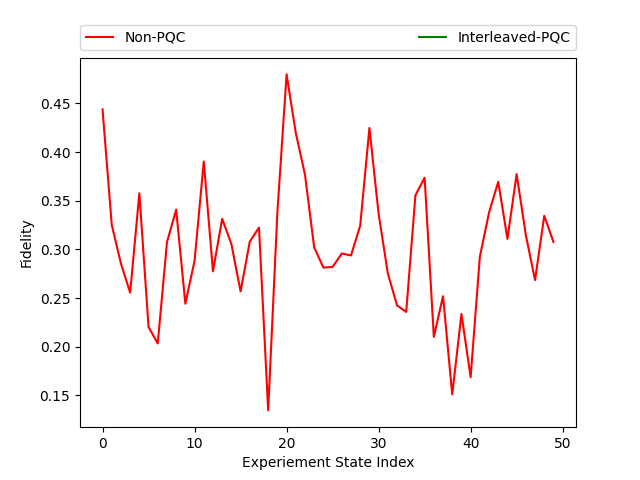
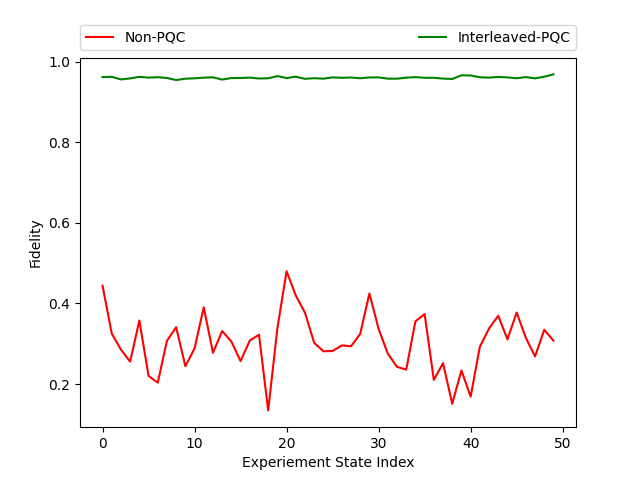
Quaternions training is fixed.

diff --git a/pqcqec/training/jax_train_functions.py b/pqcqec/training/jax_train_functions.py
@@ -23,8 +23,12 @@ def train_pqc_model_with_uncomp(model, dataloader, optimizer, schedule, main_los
             return main_loss_fn(ideal_data, measured)
 
         loss, grads = jax.value_and_grad(loss_fn)(params)
+        # Sanitize gradients to avoid NaN/Inf explosions
+        grads = jax.tree.map(lambda g: jnp.nan_to_num(g, nan=0.0, posinf=0.0, neginf=0.0), grads)
         updates, opt_state = optimizer.update(grads, opt_state, params)
         new_params = optax.apply_updates(params, updates)
+        # Keep params finite
+        new_params = jax.tree.map(lambda p: jnp.nan_to_num(p, nan=0.0, posinf=0.0, neginf=0.0), new_params)
 
         # Fidelity after parameter update
         measured = model(ideal_data, params=new_params)
@@ -32,10 +36,10 @@ def train_pqc_model_with_uncomp(model, dataloader, optimizer, schedule, main_los
 
         return opt_state, new_params, loss, fidelity
 
+    # Initialize optimizer state once and carry across epochs
+    opt_state = optimizer.init(model.get_model_params())
     for e in range(epochs):
         print(f"Epoch {e + 1}/{epochs}")
-        # Reset op state for each epoch    
-        opt_state = optimizer.init(model.get_model_params())
         data_iterator = tqdm(dataloader, desc="Training", total=len(dataloader), leave=False, unit='batch')
         
         # Initialize lists to track metrics for this epoch
@@ -81,8 +85,10 @@ def train_pqc_model_no_uncomp(model, dataloader, optimizer, schedule, main_loss_
             return main_loss_fn(simulated, measured)
 
         loss, grads = jax.value_and_grad(loss_fn)(params)
+        grads = jax.tree.map(lambda g: jnp.nan_to_num(g, nan=0.0, posinf=0.0, neginf=0.0), grads)
         updates, opt_state = optimizer.update(grads, opt_state, params)
         new_params = optax.apply_updates(params, updates)
+        new_params = jax.tree.map(lambda p: jnp.nan_to_num(p, nan=0.0, posinf=0.0, neginf=0.0), new_params)
 
         # Fidelity after parameter update
         measured = model(ideal_data, params=new_params)
@@ -92,10 +98,9 @@ def train_pqc_model_no_uncomp(model, dataloader, optimizer, schedule, main_loss_
 
         return opt_state, new_params, loss, fidelity
 
+    opt_state = optimizer.init(model.get_model_params())
     for e in range(epochs):
         print(f"Epoch {e + 1}/{epochs}")
-        # Reset op state for each epoch    
-        opt_state = optimizer.init(model.get_model_params())
         data_iterator = tqdm(dataloader, desc="Training", total=len(dataloader), leave=False, unit='batch')
         
         # Initialize lists to track metrics for this epoch

diff --git a/pqcqec/experiment/pqc_experiment.py b/pqcqec/experiment/pqc_experiment.py
@@ -84,9 +84,9 @@ def pqc_experiment_runner(
     WARMUP_STEPS = int(0.1 * TOTAL_STEPS)
     RESTART_PERIOD = int(0.25 * TOTAL_STEPS)
 
-    INIT_LR = 7e-5
-    PEAK_LR = 5e-4
-    MIN_LR = 5e-5
+    INIT_LR = 1e-4
+    PEAK_LR = 1e-2
+    MIN_LR = 5e-4
 
     # 1. Warmup schedule
     warmup = optax.linear_schedule(
@@ -111,7 +111,7 @@ def pqc_experiment_runner(
     optimizer = optax.chain(
         optax.clip_by_global_norm(1.0),
         optax.scale_by_adam(eps=1e-8),
-        optax.add_decayed_weights(weight_decay=1e-7),
+        optax.add_decayed_weights(weight_decay=1e-5),
         optax.scale_by_schedule(schedule),
         optax.scale(-1.0)
     )
@@ -159,9 +159,9 @@ def pqc_experiment_runner(
 
     print(f"Fidelity (Ideal, Noisy): {jnp.mean(fidelity_ideal_noisy):.4e}")
     print(f"Fidelity (Ideal, PQC): {jnp.mean(fidelity_ideal_pqc):.4e}")
-    print(f"Test MSE Loss (Noisy): {jax_mse_complex_loss(ideal_out_state, noisy_state):.4e}")
-    print(f'Model Parameters: \n{model.get_model_params()}')
+    # print(f"Test MSE Loss (Noisy): {jax_mse_complex_loss(ideal_out_state, noisy_state):.4e}")
+    # print(f'Model Parameters: \n{model.get_model_params()}')
     if return_fidelity:
         return fidelity_ideal_noisy, fidelity_ideal_pqc
 
-    return uncomp_circuit_ops, model.get_circuit_tokens(), jnp.mean(fidelity_ideal_pqc).item(), model.get_model_params()
+    return uncomp_circuit_ops, model.get_circuit_tokens(), jnp.mean(fidelity_ideal_pqc).item(), model.get_pqc_params()

diff --git a/pqcqec/utils/quaternions_utils.py b/pqcqec/utils/quaternions_utils.py
@@ -1,12 +1,13 @@
 import jax.numpy as jnp
-from jax import random
+# from jax import random
 
 # ---------------------------
 # 1) SU(2) from unit quaternion
 # ---------------------------
 def normalize_quaternion(q, enforce_w_nonneg=True, eps=1e-8):
-    assert len(q) == 4, "Quaternion must have 4 components (w, x, y, z)."
     q = jnp.asarray(q, dtype=jnp.float32)
+    # Sanitize to avoid NaN/Inf flowing into normalization under JIT/vmap
+    q = jnp.nan_to_num(q, nan=0.0, posinf=0.0, neginf=0.0)
     q = q / (jnp.linalg.norm(q) + eps)
     if enforce_w_nonneg:
         q = jnp.where(q[0] < 0.0, -q, q)
@@ -33,7 +34,7 @@ def zxz_from_su2(U, eps=1e-12):
 
     safe_abs_u11 = jnp.clip(jnp.abs(u11), 0.0, 1.0 - eps)
     beta = 2*jnp.arccos(safe_abs_u11)    
-    
+
     # --- Calculate the results for all three potential cases ---
     # Case 1: beta is near 0
     alpha_case1 = _wrap_pi(jnp.angle(u11) - jnp.angle(u22))
@@ -70,5 +71,4 @@ def zxz_from_su2(U, eps=1e-12):
 def quaternion_to_zxz_angles(q):
     U = su2_from_quaternion(q)
     return zxz_from_su2(U)
-
 

diff --git a/pqcqec/models/pqc_models.py b/pqcqec/models/pqc_models.py
@@ -88,6 +88,9 @@ class StateInputModelInterleavedPQCModel:
         """Set the model parameters."""
         self.pqc_params = new_params
 
+    def get_pqc_params(self):
+        return self.pqc_params
+
     def run_model_batch(self, in_state, params=None):
         """Run the model circuit on the BATCHED parameters and return the output state."""
         if params is None:
@@ -226,7 +229,11 @@ class StateInputModelInterleavedQuaternionModel:
 
     def set_model_params(self, new_params: jnp.ndarray):
         """Set the model parameters."""
+        assert not jnp.isnan(new_params).any(), "New parameters contain NaNs."
         self.quaternions = new_params.astype(jnp.float32)
+
+    def get_pqc_params(self):
+        return self.get_pqc_params_from_all_quaternions()
 
     def get_pqc_params_from_block_quaternions(self, quaternions):
         """Convert quaternions to PQC parameters."""
